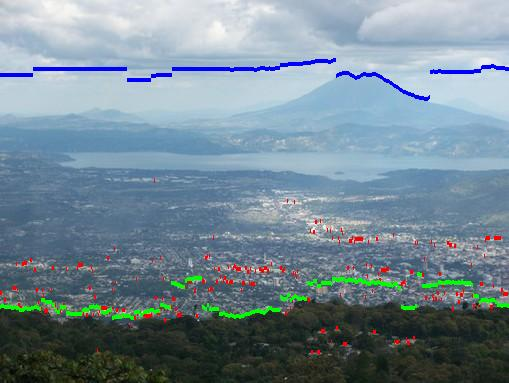
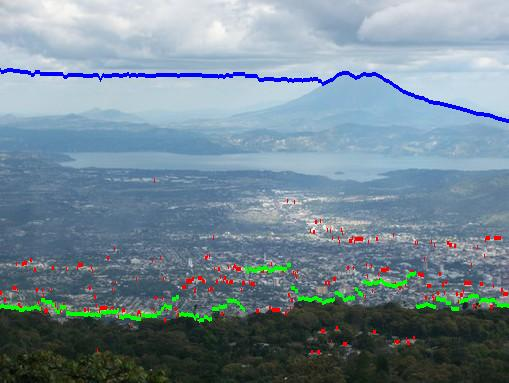
Part 3

diff --git a/part2/mountain.py b/part2/mountain.py
@@ -143,12 +143,18 @@ class mountainRidgeFinding:
 				lastRow = sampleList[0]
 				if(lastRow > j):
 					distanceFromLastRow = lastRow - j
-					newList.append((edge_strength[j][i] / gradientSum) * (200.0 / distanceFromLastRow))
+					if(distanceFromLastRow > 2):
+						newList.append(((edge_strength[j][i] / gradientSum) * 0.01) * (1.0 / distanceFromLastRow))
+					else:
+						newList.append((edge_strength[j][i] / gradientSum) * (1.0 / distanceFromLastRow))
 				elif(lastRow == j):
-					newList.append((edge_strength[j][i]+100 / gradientSum) * 200.0)
+					newList.append(edge_strength[j][i] / gradientSum)
 				else:
 					distanceFromLastRow = j - lastRow
-					newList.append((edge_strength[j][i] / gradientSum) * (200.0 / distanceFromLastRow))
+					if(distanceFromLastRow > 2):
+						newList.append(((edge_strength[j][i] / gradientSum) * 0.01) * (1.0 / distanceFromLastRow))
+					else:
+						newList.append((edge_strength[j][i] / gradientSum) * (1.0 / distanceFromLastRow))
 			sampleList.insert(0, newList.index(max(newList)))
 		for i in range(xCoord+1, finalXCoord):
 			newList = []
@@ -159,12 +165,18 @@ class mountainRidgeFinding:
 				lastRow = sampleList[len(sampleList) - 1]
 				if(lastRow > j):
 					distanceFromLastRow = lastRow - j
-					newList.append((edge_strength[j][i] / gradientSum) * (1.0 / distanceFromLastRow))
+					if(distanceFromLastRow > 2):
+						newList.append(((edge_strength[j][i] / gradientSum) * 0.01) * (1.0 / distanceFromLastRow))
+					else:
+						newList.append((edge_strength[j][i] / gradientSum) * (1.0 / distanceFromLastRow))
 				elif(lastRow == j):
 					newList.append(edge_strength[j][i] / gradientSum)
 				else:
 					distanceFromLastRow = j - lastRow
-					newList.append((edge_strength[j][i] / gradientSum) * (1.0 / distanceFromLastRow))
+					if(distanceFromLastRow > 2):
+						newList.append(((edge_strength[j][i] / gradientSum) * 0.01) * (1.0 / distanceFromLastRow))
+					else:
+						newList.append((edge_strength[j][i] / gradientSum) * (1.0 / distanceFromLastRow))
 			sampleList.append(newList.index(max(newList)))
 		return sampleList
 					
@@ -181,7 +193,7 @@ class mountainRidgeFinding:
 			samples.append(self.calculateSample(coordTuple[0], coordTuple[1]))'''
 		print(edge_strength.shape[0], edge_strength.shape[1])
 		listOfSamples = []
-		for i in range(0, 500):
+		for i in range(0, 1):
 			listOfSamples.append(self.sample3())
 		samples2 = self.sample2()
 		humanSample = self.sample4()
